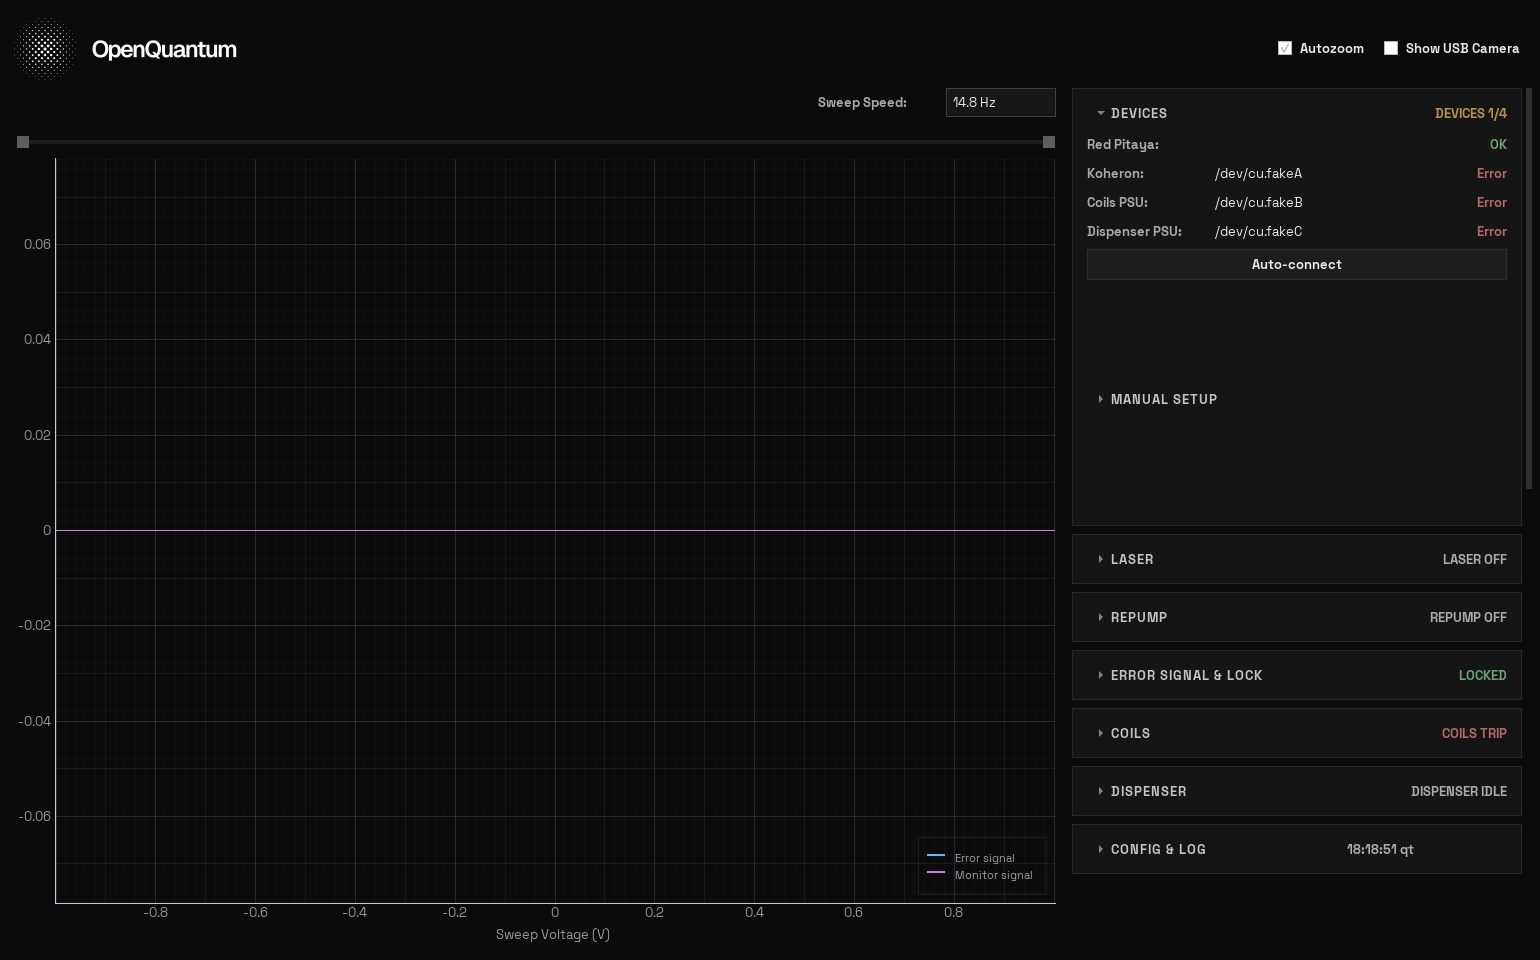
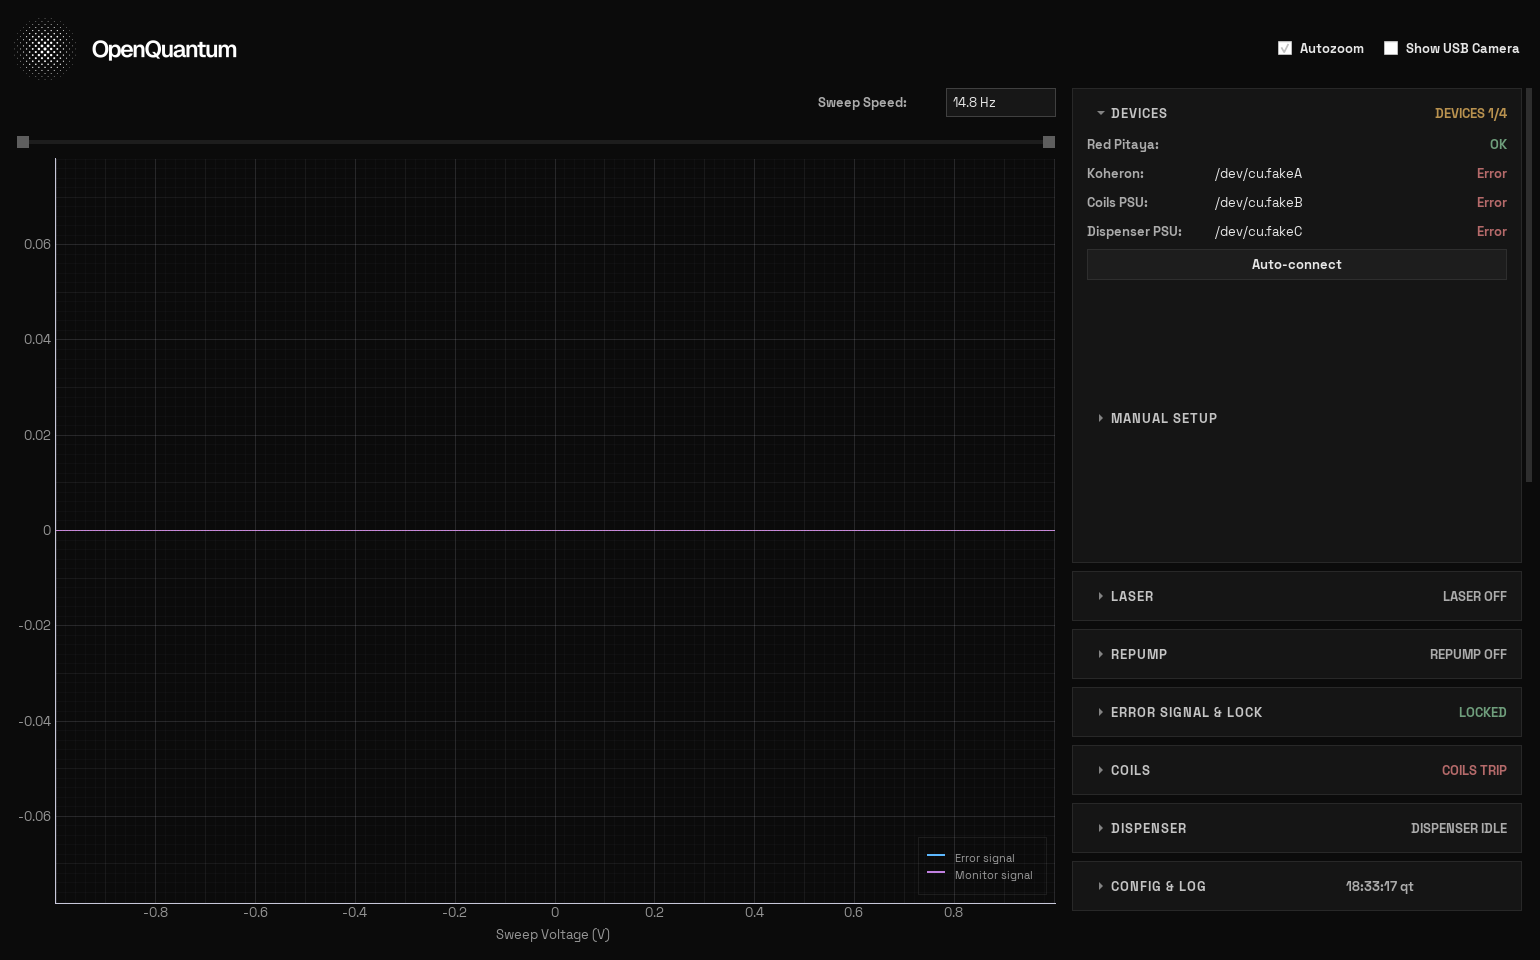
Detect a wedged linien server, and restart it from the app
Shutting down linien-server on the Red Pitaya and starting it again was
the only thing that fixed the frozen spectrum. The app said nothing and
offered nothing -- so a wedged server, a dropped connection and a
selection holding the trace all looked identical, and recovery meant an
SSH session.

linien-server increments a "ping" parameter once a second from a thread
of its own (linien_server/server.py:181). If that stops advancing its
threads are dead. The acquisition loop now reads it -- a small int, not
the 2048-point to_plot -- and reports server_stalled on the edge after
5 s of silence, clearing when the heartbeat resumes. Comparing to_plot
bytes would not do: a static spectrum is legitimate, a static heartbeat
is not. A ping read that raises is a connection problem, not a stall,
and is left to the paths that already report that.

The stall surfaces as "Stalled" on the Red Pitaya row and RP STALLED on
the lock chip, logged once with how long it has been quiet. A frozen plot
now always names its own cause.

Restart Linien Server sits in the Devices card and does what had to be
done by hand: confirm, ask the server to exit through exposed_shutdown
while a connection still exists to ask on (it raises SystemExit, so the
call comes back as EOF -- that is success), tear down the worker, then
start_remote_server over SSH and reconnect. Never install_remote_server:
that is linien-gui's, it runs pip3 uninstall linien-server, and it would
[…]

diff --git a/mot_control.py b/mot_control.py
@@ -48,6 +48,7 @@ from mot_workers import (
     DispenserWorker,
     LaserSetpointWorker,
     LinienGpioWorker,
+    LinienServerRestartWorker,
     PsdWorker,
     RidenDPSWorker,
     SerialProbeWorker,
@@ -987,6 +988,9 @@ class OpenQuantumControlsWindow(QtWidgets.QMainWindow):
         # key -> (desired_state, deadline). Present only while a write is
         # outstanding; see _sync_output_button.
         self._pending_output = {}
+        self._server_stalled = False
+        self._server_restarting = False
+        self._rp_last_status = "disconnected"
         self._event_log = EventLog(logs_dir())
         self._readback_log_t = {}
         self._readback_log_output = {}
@@ -1043,6 +1047,7 @@ class OpenQuantumControlsWindow(QtWidgets.QMainWindow):
         self.linien_widget.fault.connect(
             lambda msg: self._log_fault("linien", msg)
         )
+        self.linien_widget.server_stalled.connect(self._on_server_stalled)
 
         # Wheel events must never change an unfocused control (this covers
         # every slider/combo/spinbox, including the Linien sweep slider).
@@ -1581,6 +1586,20 @@ class OpenQuantumControlsWindow(QtWidgets.QMainWindow):
             self.connect_btn,
         )
         manual_layout.addWidget(self.connect_btn)
+
+        # Reconnecting does not help a wedged server: it answers RPyC fine,
+        # its acquisition and heartbeat threads are just dead. Only a
+        # restart of the server process brings it back.
+        self.restart_server_btn = QtWidgets.QPushButton("Restart Linien Server")
+        self.restart_server_btn.setCursor(QtCore.Qt.PointingHandCursor)
+        self.restart_server_btn.clicked.connect(self._restart_linien_server)
+        self._tip(
+            "Restart linien-server on the Red Pitaya over SSH. Use this when\n"
+            "the spectrum has stopped and the status says Stalled — a\n"
+            "reconnect will not fix that. Drops the lock.",
+            self.restart_server_btn,
+        )
+        manual_layout.addWidget(self.restart_server_btn)
 
         self.auto_discover_btn = QtWidgets.QPushButton("Auto-connect")
         self.auto_discover_btn.setCursor(QtCore.Qt.PointingHandCursor)
@@ -3138,7 +3157,85 @@ class OpenQuantumControlsWindow(QtWidgets.QMainWindow):
             return
         self._set_filters_ui(filters)
 
+    def _on_server_stalled(self, stalled):
+        """The Red Pitaya answers but its worker threads have died.
+
+        A frozen plot has three possible causes -- a stalled server, a
+        dropped connection, or a selection holding the trace -- and they
+        look identical. This is what names the first one.
+        """
+        self._server_stalled = bool(stalled)
+        if stalled:
+            self.rp_usb_status.setText("Stalled")
+            self.rp_usb_status.setStyleSheet(
+                "color: #b9924f; font-size: 13px; font-weight: 700; border: none;"
+            )
+            self._set_chip("lock", "RP STALLED", "#b9924f")
+        else:
+            # Restore what the connection actually last reported. Claiming
+            # "connected" here would also silently bump DEVICES n/4.
+            self._set_usb_status_label(
+                self.rp_usb_status, self._rp_last_status, "rp"
+            )
+            self._set_chip("lock", "UNLOCKED", "#b56a6a")
+
+    def _restart_linien_server(self):
+        """Shut the server down and bring it back, without an SSH session."""
+        if self._server_restarting:
+            return
+        host = self.rp_edit.text().strip()
+        if not host:
+            self._log_fault("linien", "restart skipped: no Red Pitaya host set")
+            return
+        confirm = QtWidgets.QMessageBox.question(
+            self,
+            "Restart linien server",
+            f"Restart linien-server on {host}?\n\n"
+            "This drops the lock and interrupts acquisition for a few "
+            "seconds. Use it when the spectrum has stalled.",
+            QtWidgets.QMessageBox.Yes | QtWidgets.QMessageBox.Cancel,
+            QtWidgets.QMessageBox.Cancel,
+        )
+        if confirm != QtWidgets.QMessageBox.Yes:
+            return
+
+        self._server_restarting = True
+        self.restart_server_btn.setEnabled(False)
+        self.restart_server_btn.setText("Restarting…")
+        self._event_log.user("linien_server_restart", host=host)
+
+        # Ask the server to exit while we still have a connection to ask
+        # on. It raises SystemExit after joining its threads, so the call
+        # comes back as an EOF -- that is success, not a failure.
+        worker = self._get_lock_worker()
+        if worker is not None:
+            try:
+                worker.client.connection.root.exposed_shutdown()
+            except Exception:
+                pass
+        self.linien_widget.stop()
+
+        self.server_restart_worker = LinienServerRestartWorker(
+            host=host, event_log=self._event_log
+        )
+        self.server_restart_worker.finished_ok.connect(
+            self._on_server_restarted
+        )
+        self.server_restart_worker.start()
+
+    def _on_server_restarted(self, ok, message):
+        self._server_restarting = False
+        self.restart_server_btn.setEnabled(True)
+        self.restart_server_btn.setText("Restart Linien Server")
+        if not ok:
+            self._log_fault("linien", f"server restart failed: {message}")
+            return
+        self._event_log.log("linien_server_restarted", message=message)
+        self._server_stalled = False
+        self.linien_widget.start()
+
     def _on_linien_connection(self, status):
+        self._rp_last_status = status
         self._set_usb_status_label(self.rp_usb_status, status, "rp")
         if status.startswith("connected"):
             # Give the worker a moment to finish its own connect-time setup.

diff --git a/linien_worker.py b/linien_worker.py
@@ -12,7 +12,7 @@ from pyqtgraph.Qt import QtCore
 from linien_client.device import Device
 import pickle
 import numpy as np
-from time import sleep
+from time import monotonic, sleep
 from linien_common.common import MHz, AutolockMode, Vpp
 
 from mot_logging import NULL_LOG
@@ -24,6 +24,15 @@ class LinienWorker(QtCore.QThread):
     lock_state = QtCore.pyqtSignal(bool)  # True if locked, False otherwise
     connection_status = QtCore.pyqtSignal(str)  # "connected:<host>" or "disconnected"
     fault = QtCore.pyqtSignal(str)  # anything that would otherwise be silent
+    # True when the server's heartbeat has stopped, False when it resumes.
+    server_stalled = QtCore.pyqtSignal(bool)
+
+    # linien-server increments ``ping`` once a second from a thread of its
+    # own (linien_server/server.py:181). If it stops advancing the server's
+    # threads are dead, which is the one thing a frozen plot cannot tell
+    # you by itself: a static spectrum is legitimate, a static heartbeat
+    # is not.
+    STALL_AFTER_S = 5.0
 
     def __init__(self, host="rp-F0C6AD.local", username="root", password="root",
                  event_log=None, unlock_on_stop=True):
@@ -44,6 +53,40 @@ class LinienWorker(QtCore.QThread):
         self.mon = np.array([])
         self.voltages = np.array([])
         self._last_ui_lock_state = None  # debounce UI lock-state updates
+        self._last_ping = None
+        self._ping_changed_at = None
+        self._stalled = False
+
+    def _check_server_alive(self):
+        """Watch the server's heartbeat; report the edges, not every poll."""
+        try:
+            ping = int(self.client.parameters.ping.value)
+        except Exception:
+            return  # a read that fails is a connection problem, not a stall
+        now = monotonic()
+        if ping != self._last_ping:
+            self._last_ping = ping
+            self._ping_changed_at = now
+            if self._stalled:
+                self._stalled = False
+                self.event_log.log("linien_server_recovered", host=self.host)
+                self.server_stalled.emit(False)
+            return
+        if self._ping_changed_at is None:
+            self._ping_changed_at = now
+            return
+        quiet_s = now - self._ping_changed_at
+        if not self._stalled and quiet_s >= self.STALL_AFTER_S:
+            self._stalled = True
+            self.event_log.fault(
+                "linien",
+                message=(
+                    f"server heartbeat stopped {quiet_s:.0f} s ago — "
+                    "it is wedged, restart it"
+                ),
+                host=self.host,
+            )
+            self.server_stalled.emit(True)
 
     def run(self):
         try:
@@ -139,6 +182,7 @@ class LinienWorker(QtCore.QThread):
                 self._log("acquisition failed: " + str(e))
 
             self._emit_lock_state_best_effort()
+            self._check_server_alive()
             self.msleep(200)
 
         self.event_log.log("linien_loop_ended", host=self.host)

diff --git a/mot_workers.py b/mot_workers.py
@@ -1240,3 +1240,55 @@ class LaserSetpointWorker(QtCore.QThread):
             self._ser.close()
         self.wait()
 
+
+
+# ---------------------------------------------------------------------------
+class LinienServerRestartWorker(QtCore.QThread):
+    """Restart linien-server on the Red Pitaya, over SSH.
+
+    A wedged server answers RPyC but its acquisition and heartbeat threads
+    are dead, and the only cure is a restart. This does it from the app so
+    that does not mean an SSH session.
+
+    Deliberately a one-shot thread rather than a persistent worker: it
+    exists because ``start_remote_server`` blocks on SSH for several
+    seconds and the GUI thread must not. It owns no client and no port.
+
+    **Only ever calls ``start_remote_server``.** linien-gui's
+    ``install_remote_server`` runs ``pip3 uninstall linien-server -y``,
+    which would destroy the hand-applied dac_click_voltage patch on this
+    device (see CLAUDE.md).
+
+    Signals:
+        finished_ok(bool, str): success flag and a message for the log.
+    """
+
+    finished_ok = QtCore.pyqtSignal(bool, str)
+
+    def __init__(self, host, username="root", password="root", event_log=None):
+        super().__init__()
+        self.event_log = event_log or NULL_LOG
+        self.host = host
+        self.username = username
+        self.password = password
+
+    def run(self):
+        try:
+            from linien_client.deploy import start_remote_server
+            from linien_client.device import Device
+        except Exception as e:
+            self.finished_ok.emit(False, f"linien_client unavailable: {e}")
+            return
+
+        device = Device(
+            host=self.host, username=self.username, password=self.password
+        )
+        try:
+            with self.event_log.command(
+                "linien.restart_server", host=self.host
+            ):
+                start_remote_server(device)
+        except Exception as e:
+            self.finished_ok.emit(False, str(e))
+            return
+        self.finished_ok.emit(True, f"linien-server restarted on {self.host}")

diff --git a/tests/test_workers.py b/tests/test_workers.py
@@ -125,6 +125,68 @@ def test_lock_uses_the_simple_autolock_preference():
     )
 
 
+def test_stalled_server_is_detected_from_its_heartbeat():
+    """linien-server bumps `ping` once a second; a frozen one does not.
+
+    A wedged server still answers RPyC, so the plot just stops with no
+    explanation -- indistinguishable from a static spectrum. The
+    heartbeat is what tells them apart.
+    """
+    import time
+
+    w = worker()
+    w.STALL_AFTER_S = 0.15  # do not sit out the real 5 s
+    w.client.parameters.ping.value = 7
+
+    seen = []
+    w.server_stalled.connect(seen.append)
+
+    w._check_server_alive()          # first sighting, starts the clock
+    assert seen == []
+    time.sleep(0.2)
+    w._check_server_alive()          # still 7 -> stalled
+    assert seen == [True], seen
+    w._check_server_alive()          # reported on the edge, not per poll
+    w._check_server_alive()
+    assert seen == [True], seen
+
+    w.client.parameters.ping.value = 8
+    w._check_server_alive()
+    assert seen == [True, False], seen
+
+
+def test_a_beating_heart_never_reports_a_stall():
+    import time
+
+    w = worker()
+    w.STALL_AFTER_S = 0.15
+    seen = []
+    w.server_stalled.connect(seen.append)
+    for tick in range(6):
+        w.client.parameters.ping.value = tick
+        w._check_server_alive()
+        time.sleep(0.05)
+    assert seen == [], seen
+
+
+def test_a_failed_ping_read_is_not_a_stall():
+    """A read that raises is a connection problem, reported elsewhere."""
+    w = worker()
+    w.STALL_AFTER_S = 0.0
+    seen = []
+    w.server_stalled.connect(seen.append)
+
+    class Exploding:
+        @property
+        def value(self):
+            raise RuntimeError("connection reset")
+
+    w.client.parameters._params["ping"] = Exploding()
+    w._check_server_alive()
+    w._check_server_alive()
+    assert seen == [], seen
+
+
 def test_stop_can_leave_the_lock_engaged():
     """The shutdown checklist's "leave it locked" has to reach here."""
     w = worker()

diff --git a/tests/smoke_ui.py b/tests/smoke_ui.py
@@ -575,6 +575,42 @@ try:
     })
     assert not lw._plot_paused, "orphaned pause never cleared"
 
+    # A wedged server answers RPyC but its threads are dead, so the plot
+    # just stops. Reconnecting does not help; only a restart does, and
+    # the UI has to say which failure this is.
+    window._on_server_stalled(True)
+    assert window.rp_usb_status.text() == "Stalled"
+    assert window.chip_text("lock") == "RP STALLED"
+    window._on_server_stalled(False)
+    assert window.rp_usb_status.text() != "Stalled"
+    assert window.chip_text("lock") == "UNLOCKED"
+
+    # The restart action guards against a double press.
+    assert window.restart_server_btn.isEnabled()
+    window._server_restarting = True
+    window._restart_linien_server()  # must return without prompting
+    window._server_restarting = False
+    # ...and reports a missing host rather than SSHing to nothing.
+    saved_host = window.rp_edit.text()
+    window.rp_edit.setText("")
+    window._restart_linien_server()
+    assert not window._server_restarting
+    window.rp_edit.setText(saved_host)
+
+    # A failed restart re-enables the button and says so, rather than
+    # leaving it stuck on "Restarting...". The success path is not driven
+    # here: it reconnects, and this test must never touch hardware.
+    window._server_restarting = True
+    window.restart_server_btn.setEnabled(False)
+    window._on_server_restarted(False, "ssh refused")
+    assert window.restart_server_btn.isEnabled()
+    assert not window._server_restarting
+    assert window.restart_server_btn.text() == "Restart Linien Server"
+    assert any(
+        r["kind"] == "fault" and "ssh refused" in str(r.get("message", ""))
+        for r in _records()
+    )
+
     # Determine signal offset defaults on, matching linien's server default.
     assert window.auto_offset_check.isChecked()
     window.auto_offset_check.setChecked(False)

diff --git a/linien_widget.py b/linien_widget.py
@@ -53,6 +53,8 @@ class LinienWidget(QtWidgets.QWidget):
     connection_status_changed = QtCore.pyqtSignal(str)
     selection_state_changed = QtCore.pyqtSignal(bool)
     fault = QtCore.pyqtSignal(str)
+    # The server's heartbeat stopped/resumed -- see LinienWorker.
+    server_stalled = QtCore.pyqtSignal(bool)
 
     def __init__(self, linien_host=None, show_lock_buttons=True,
                  show_stop_button=False, sweep_range=(-1.0, 1.0),
@@ -294,6 +296,7 @@ class LinienWidget(QtWidgets.QWidget):
         self.linien_thread.lock_state.connect(self._on_lock_state)
         self.linien_thread.connection_status.connect(self.connection_status_changed.emit)
         self.linien_thread.fault.connect(self.fault.emit)
+        self.linien_thread.server_stalled.connect(self.server_stalled.emit)
         self.linien_thread.start()
 
     # --- Slots ---
